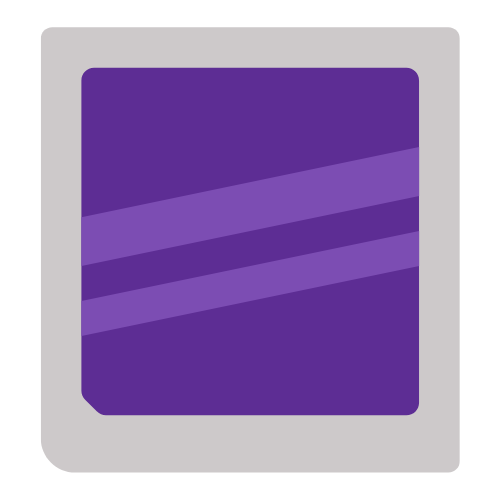
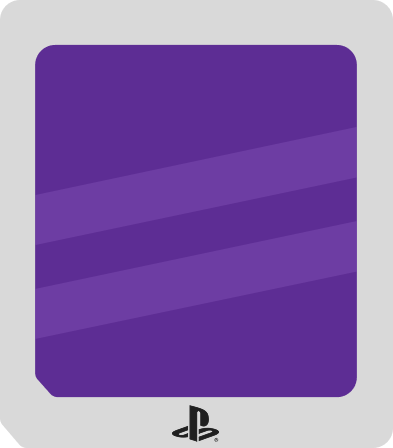
feat: Edição de capa

diff --git a/launcher.py b/launcher.py
@@ -1,7 +1,6 @@
-
 import customtkinter as ctk
-from tkinter import Canvas, messagebox
-from PIL import Image, ImageTk
+from tkinter import Canvas, messagebox, filedialog
+from PIL import Image, ImageTk, ImageDraw
 import os
 import sys
 import subprocess
@@ -13,57 +12,38 @@ import threading
 ctk.set_appearance_mode("dark")
 ctk.set_default_color_theme("dark-blue")
 
+# === Caminhos ===
 def get_base_path():
     if getattr(sys, 'frozen', False):
         return os.path.dirname(sys.executable)
     return os.path.abspath(os.path.dirname(__file__))
 
-def get_asset_path(filename):
-    return os.path.join(get_base_path(), 'game', 'assets', filename)
+def get_asset_path(filename): return os.path.join(get_base_path(), 'game', 'assets', filename)
+def get_rom_path(filename): return os.path.join(get_base_path(), 'roms', filename)
+def get_emulator_path(filename): return os.path.join(get_base_path(), 'game', filename)
+def get_capa_path(filename): return os.path.join(get_base_path(), 'capas', filename)
 
-def get_rom_path(filename):
-    return os.path.join(get_base_path(), 'roms', filename)
-
-def get_emulator_path(filename):
-    return os.path.join(get_base_path(), 'game', filename)
-
-def get_capa_path(filename):
-    return os.path.join(get_base_path(), 'capas', filename)
-
+# === Funções de Jogo ===
 def carregar_lista_jogos_remota():
     try:
         pasta_drive_id = "19xDDredXpO1XVAhCioHSSSNSME8ieX0-"
         destino_roms = get_rom_path('')
+        os.makedirs(destino_roms, exist_ok=True)
 
-        if not os.path.exists(destino_roms):
-            os.makedirs(destino_roms)
-
-        # Cria pasta temporária (evita criar ps1 dentro de roms)
         with tempfile.TemporaryDirectory() as temp_dir:
-            gdown.download_folder(
-                id=pasta_drive_id,
-                output=temp_dir,
-                quiet=False,
-                use_cookies=False
-            )
+            gdown.download_folder(id=pasta_drive_id, output=temp_dir, quiet=False, use_cookies=False)
 
-            # Move e extrai arquivos direto na raiz de 'roms'
             for arquivo in os.listdir(temp_dir):
                 src_path = os.path.join(temp_dir, arquivo)
                 dst_path = os.path.join(destino_roms, arquivo)
-
-                # Copia para pasta roms
                 os.rename(src_path, dst_path)
 
-                # Se for zip, extrai e remove
                 if dst_path.endswith(".zip"):
                     with zipfile.ZipFile(dst_path, 'r') as zip_ref:
                         zip_ref.extractall(destino_roms)
                     os.remove(dst_path)
-
     except Exception as e:
         messagebox.showerror("Erro", f"Erro ao baixar ou extrair jogos:\n{e}")
-
 
 def verificar_ou_criar_cfg_hle():
     cfg_path = get_emulator_path("epsxe001.cfg")
@@ -75,14 +55,13 @@ def verificar_ou_criar_cfg_hle():
 def encontrar_jogos():
     jogos = []
     rom_dir = get_rom_path('')
-    if not os.path.exists(rom_dir):
-        os.makedirs(rom_dir)
+    os.makedirs(rom_dir, exist_ok=True)
+
     for arquivo in os.listdir(rom_dir):
         if arquivo.lower().endswith(('.bin', '.iso', '.cue', '.img')):
             nome_jogo = os.path.splitext(arquivo)[0]
             capa = f"{nome_jogo}.png"
-            capa_path = get_capa_path(capa)
-            if not os.path.isfile(capa_path):
+            if not os.path.isfile(get_capa_path(capa)):
                 capa = "default.png"
             jogos.append({"title": nome_jogo, "image": capa, "file": arquivo})
     return jogos
@@ -119,35 +98,89 @@ def exibir_jogos(lista_jogos):
     global imagens
     imagens = []
 
+    moldura_path = get_asset_path("moldura_transparente.png")
+    moldura_base = Image.open(moldura_path).convert("RGBA")
+
+    # Redimensionar a moldura para tamanho menor
+    moldura_w, moldura_h = 140, 160
+    moldura_base = moldura_base.resize((moldura_w, moldura_h), Image.LANCZOS)
+
+    # Área interna (ajustada proporcionalmente à moldura menor)
+    inner_x, inner_y = 0, 0
+    inner_w, inner_h = 130, 150
+
     for widget in game_frame.winfo_children():
         widget.destroy()
 
     if not lista_jogos:
-        sem_jogos_label = ctk.CTkLabel(game_frame, text="Nenhum jogo encontrado!", font=("Segoe UI", 16, "bold"), text_color="gray")
-        sem_jogos_label.pack(pady=50)
+        ctk.CTkLabel(game_frame, text="Nenhum jogo encontrado!", font=("Segoe UI", 16, "bold"), text_color="gray").pack(pady=50)
         return
 
     for idx, jogo in enumerate(lista_jogos):
-        img_path = get_capa_path(jogo["image"])
-        try:
-            img = Image.open(img_path).resize((64, 64))
-        except:
-            img = Image.open(get_asset_path("default.png")).resize((64, 64))
+        nome_jogo = jogo["title"]
+        is_default = jogo["image"] == "default.png"
 
-        img_tk = ImageTk.PhotoImage(img)
+        if is_default:
+            moldura = Image.open(get_asset_path("default.png")).convert("RGBA").resize((moldura_w, moldura_h))
+        else:
+            try:
+                capa_original = Image.open(get_capa_path(jogo["image"])).convert("RGBA")
+                # Redimensionar para preencher completamente o espaço da moldura (crop estilo "cover")
+                ratio_w = inner_w / capa_original.width
+                ratio_h = inner_h / capa_original.height
+                scale = max(ratio_w, ratio_h)
+                new_size = (int(capa_original.width * scale), int(capa_original.height * scale))
+                capa_ajustada = capa_original.resize(new_size, Image.LANCZOS)
+
+                # Crop centralizado
+                left = (capa_ajustada.width - inner_w) // 2
+                top = (capa_ajustada.height - inner_h) // 2
+                right = left + inner_w
+                bottom = top + inner_h
+                capa_crop = capa_ajustada.crop((left, top, right, bottom))
+
+                imagem_fundo = Image.new("RGBA", (moldura_w, moldura_h), (0, 0, 0, 0))
+                imagem_fundo.paste(capa_crop, (inner_x, inner_y))
+                imagem_fundo.paste(moldura_base, (0, 0), mask=moldura_base)
+                moldura = imagem_fundo
+            except:
+                moldura = Image.open(get_asset_path("default.png")).convert("RGBA").resize((moldura_w, moldura_h))
+
+        img_tk = ImageTk.PhotoImage(moldura)
         imagens.append(img_tk)
 
         frame_item = ctk.CTkFrame(game_frame, fg_color="#1e1e1e", corner_radius=8)
-        titulo_quebrado = '\n'.join(jogo["title"].split()[:3])
+        titulo_quebrado = '\n'.join(nome_jogo.split()[:3])
 
-        btn = ctk.CTkButton(
+        ctk.CTkButton(
             frame_item, image=img_tk, text=titulo_quebrado, compound="top",
-            width=80, height=100, fg_color="#1e1e1e", text_color="white",
-            font=("Segoe UI", 12, "bold"), hover_color="#2a2a3d",
+            width=moldura_w, height=moldura_h + 30, fg_color="#1e1e1e",
+            text_color="white", font=("Segoe UI", 12, "bold"), hover_color="#2a2a3d",
             command=lambda i=jogos.index(jogo): selecionar_jogo(i)
-        )
-        btn.pack()
-        frame_item.grid(row=idx // 5, column=idx % 5, padx=10, pady=10)
+        ).pack()
+
+        try:
+            icone_editar = load_icon("icon_edit.png", size=(20, 20))
+            def editar_capa(nome=nome_jogo):
+                caminho = filedialog.askopenfilename(filetypes=[("Imagens", "*.png *.jpg *.jpeg")])
+                if caminho and os.path.splitext(caminho)[-1].lower() in [".png", ".jpg", ".jpeg"]:
+                    try:
+                        nova = Image.open(caminho).convert("RGB")
+                        nova.save(get_capa_path(f"{nome}.png"))
+                        atualizar_lista()
+                    except Exception as e:
+                        messagebox.showerror("Erro", f"Erro ao atualizar a capa:\n{e}")
+            ctk.CTkButton(
+                frame_item, text="", image=icone_editar, width=20, height=20,
+                fg_color="transparent", hover_color="#444", corner_radius=6,
+                command=editar_capa
+            ).place(x=moldura_w - 28, y=4)
+        except:
+            pass
+
+        frame_item.grid(row=idx // 3, column=idx % 3, padx=10, pady=10)
+
+
 
 
 def baixar_jogos_drive():
@@ -159,9 +192,7 @@ def baixar_jogos_drive():
                 progress_bar.pack(side="bottom", fill="x", padx=10, pady=(0, 2)),
                 progress_bar.start()
             ))
-
             carregar_lista_jogos_remota()
-
         except Exception as e:
             root.after(0, lambda: messagebox.showerror("Erro", f"Falha ao baixar jogos:\n{e}"))
         finally:
@@ -171,9 +202,9 @@ def baixar_jogos_drive():
                 progress_label.pack_forget(),
                 atualizar_lista()
             ))
-
     threading.Thread(target=run, daemon=True).start()
 
+# === UI ===
 verificar_ou_criar_cfg_hle()
 
 root = ctk.CTk()
@@ -183,10 +214,9 @@ root.geometry("530x520")
 progress_bar = ctk.CTkProgressBar(root, mode="indeterminate", height=5)
 progress_bar.set(0)
 progress_label = ctk.CTkLabel(root, text="", font=("Segoe UI", 12), text_color="white")
-try:
-    root.iconbitmap(get_asset_path("icone.ico"))
-except:
-    pass
+
+try: root.iconbitmap(get_asset_path("icone.ico"))
+except: pass
 
 main_content = ctk.CTkFrame(root, fg_color="#1e1e1e")
 main_content.pack(fill="both", expand=True)
@@ -197,8 +227,7 @@ header.pack(fill="x", padx=10, pady=5)
 def load_icon(name, size=(36, 36)):
     path = get_asset_path(name)
     try:
-        img = Image.open(path).resize(size)
-        return ImageTk.PhotoImage(img)
+        return ImageTk.PhotoImage(Image.open(path).resize(size))
     except:
         return None
 
@@ -221,31 +250,21 @@ create_icon_button(icon_download, baixar_jogos_drive)
 search_wrapper = ctk.CTkFrame(header, corner_radius=20, fg_color="#2f2f2f", width=260, height=32)
 search_wrapper.pack(side="left", padx=10, pady=4)
 
-lupa_label = ctk.CTkLabel(search_wrapper, text="", image=icon_lupa, fg_color="transparent", width=24)
-lupa_label.pack(side="left", padx=(10, 0), pady=4)
+ctk.CTkLabel(search_wrapper, text="", image=icon_lupa, fg_color="transparent", width=24).pack(side="left", padx=(10, 0), pady=4)
 
 search_var = ctk.StringVar()
 search_entry = ctk.CTkEntry(
-    master=search_wrapper,
-    textvariable=search_var,
-    placeholder_text="Buscar jogo...",
-    font=("Segoe UI", 14),
-    text_color="white",
-    placeholder_text_color="#aaaaaa",
-    border_color="#2f2f2f",
-    fg_color="#2f2f2f",
-    border_width=0,
-    width=200,
-    height=30
+    master=search_wrapper, textvariable=search_var, placeholder_text="Buscar jogo...",
+    font=("Segoe UI", 14), text_color="white", placeholder_text_color="#aaaaaa",
+    border_color="#2f2f2f", fg_color="#2f2f2f", border_width=0,
+    width=200, height=30
 )
 search_entry.pack(side="left", padx=(6, 8), pady=4, fill="x", expand=True)
 
 if icon_logo:
-    logo_label = ctk.CTkLabel(header, text="", image=icon_logo, fg_color="transparent")
-    logo_label.pack(side="left", padx=(5, 0))
+    ctk.CTkLabel(header, text="", image=icon_logo, fg_color="transparent").pack(side="left", padx=(5, 0))
 
-label_jogos = ctk.CTkLabel(main_content, text="Jogos", font=("Segoe UI", 16, "bold"), text_color="white")
-label_jogos.pack(anchor="w", padx=20, pady=(5, 2))
+ctk.CTkLabel(main_content, text="Jogos", font=("Segoe UI", 16, "bold"), text_color="white").pack(anchor="w", padx=20, pady=(5, 2))
 
 def filtrar_jogos(*args):
     termo = search_var.get().lower()
@@ -259,17 +278,10 @@ search_var.trace_add("write", filtrar_jogos)
 game_frame = ctk.CTkFrame(main_content, fg_color="#1e1e1e")
 game_frame.pack(fill="both", expand=True, padx=10, pady=(0, 5))
 
-progress_bar = ctk.CTkProgressBar(root, mode="indeterminate", height=5)
-progress_bar.set(0)
-progress_label = ctk.CTkLabel(root, text="", font=("Segoe UI", 12), text_color="white")
-
 footer = ctk.CTkLabel(root, text="Created by Thiago Aciole © 2025", text_color="#aaaaaa", font=("Segoe UI", 12))
 footer.pack(side="bottom", pady=5)
 
 carregar_jogos()
 
-root.after(500, lambda: (
-    baixar_jogos_drive() if len(jogos) == 0 and messagebox.askyesno("ROMs não encontradas", "Nenhuma ROM foi encontrada. Deseja baixar agora?") else None
-))
-
+root.after(500, lambda: baixar_jogos_drive() if len(jogos) == 0 and messagebox.askyesno("ROMs não encontradas", "Nenhuma ROM foi encontrada. Deseja baixar agora?") else None)
 root.mainloop()
